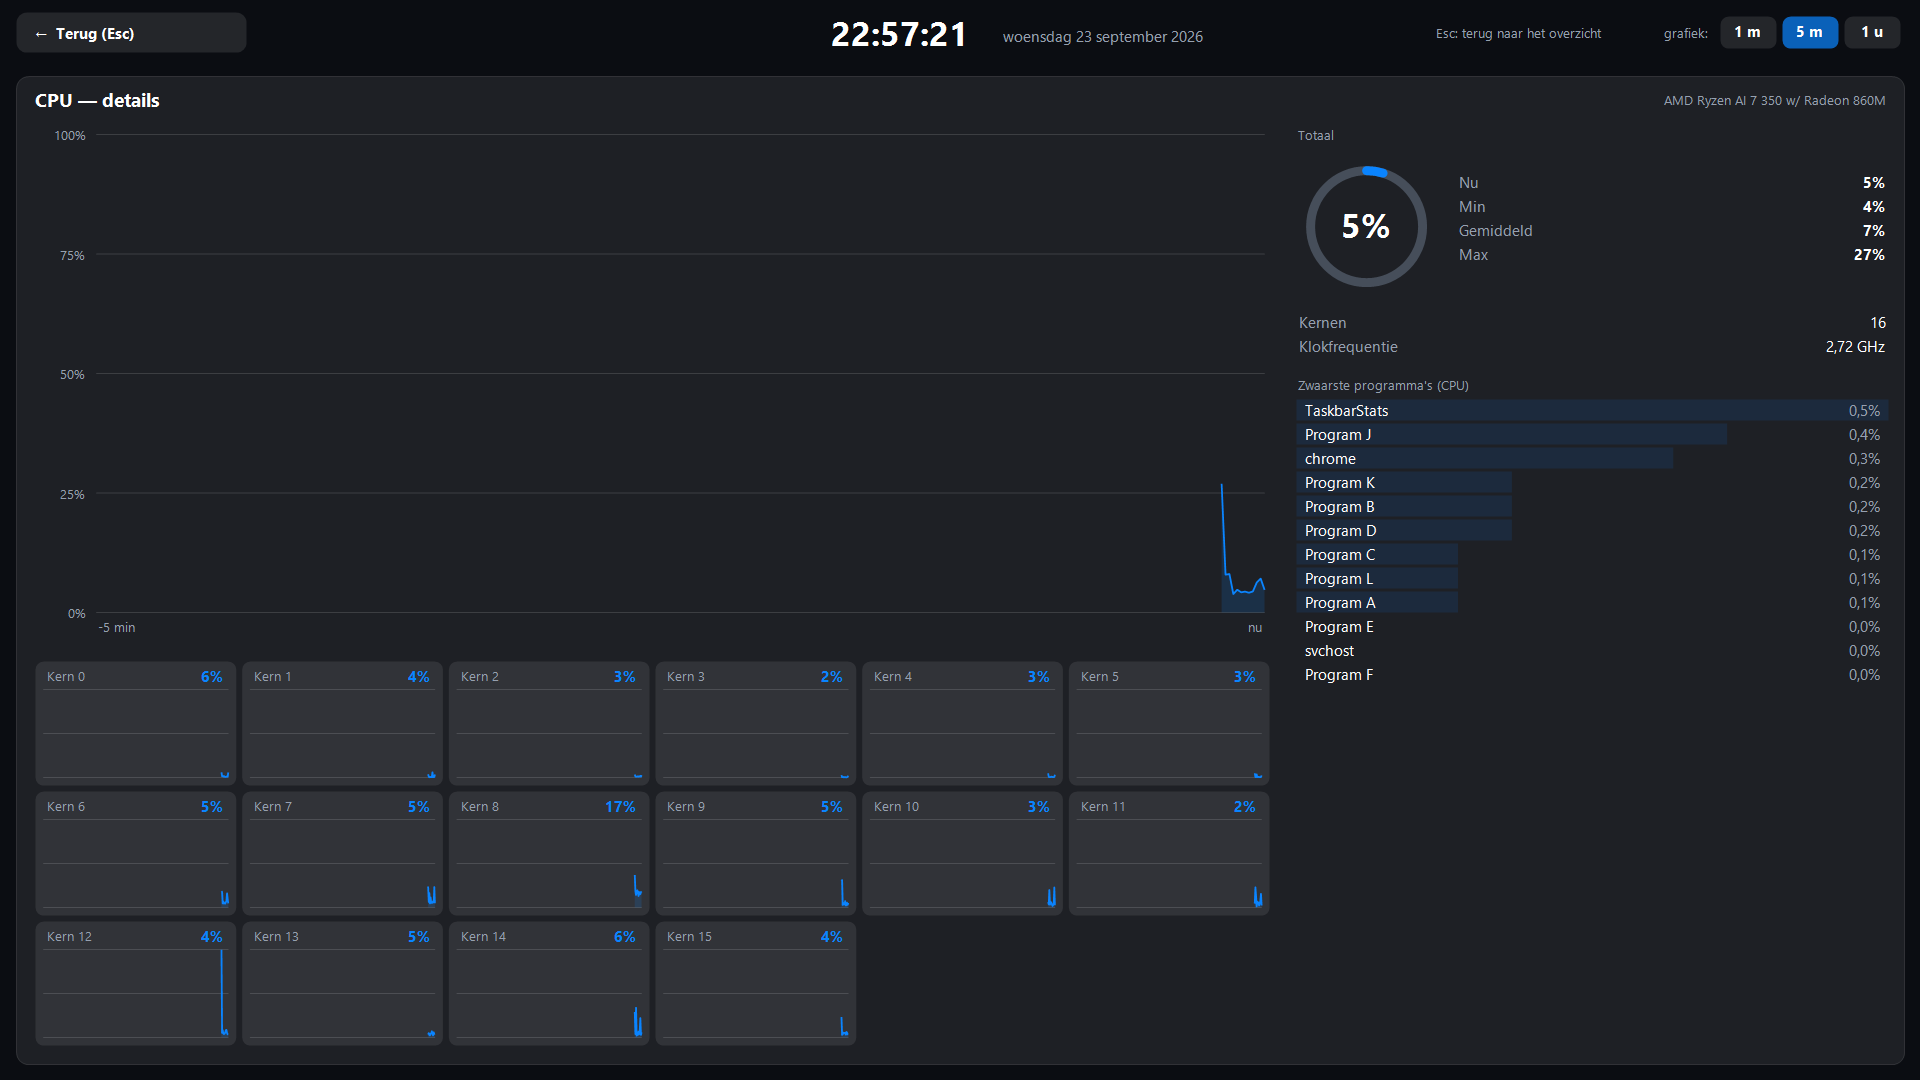
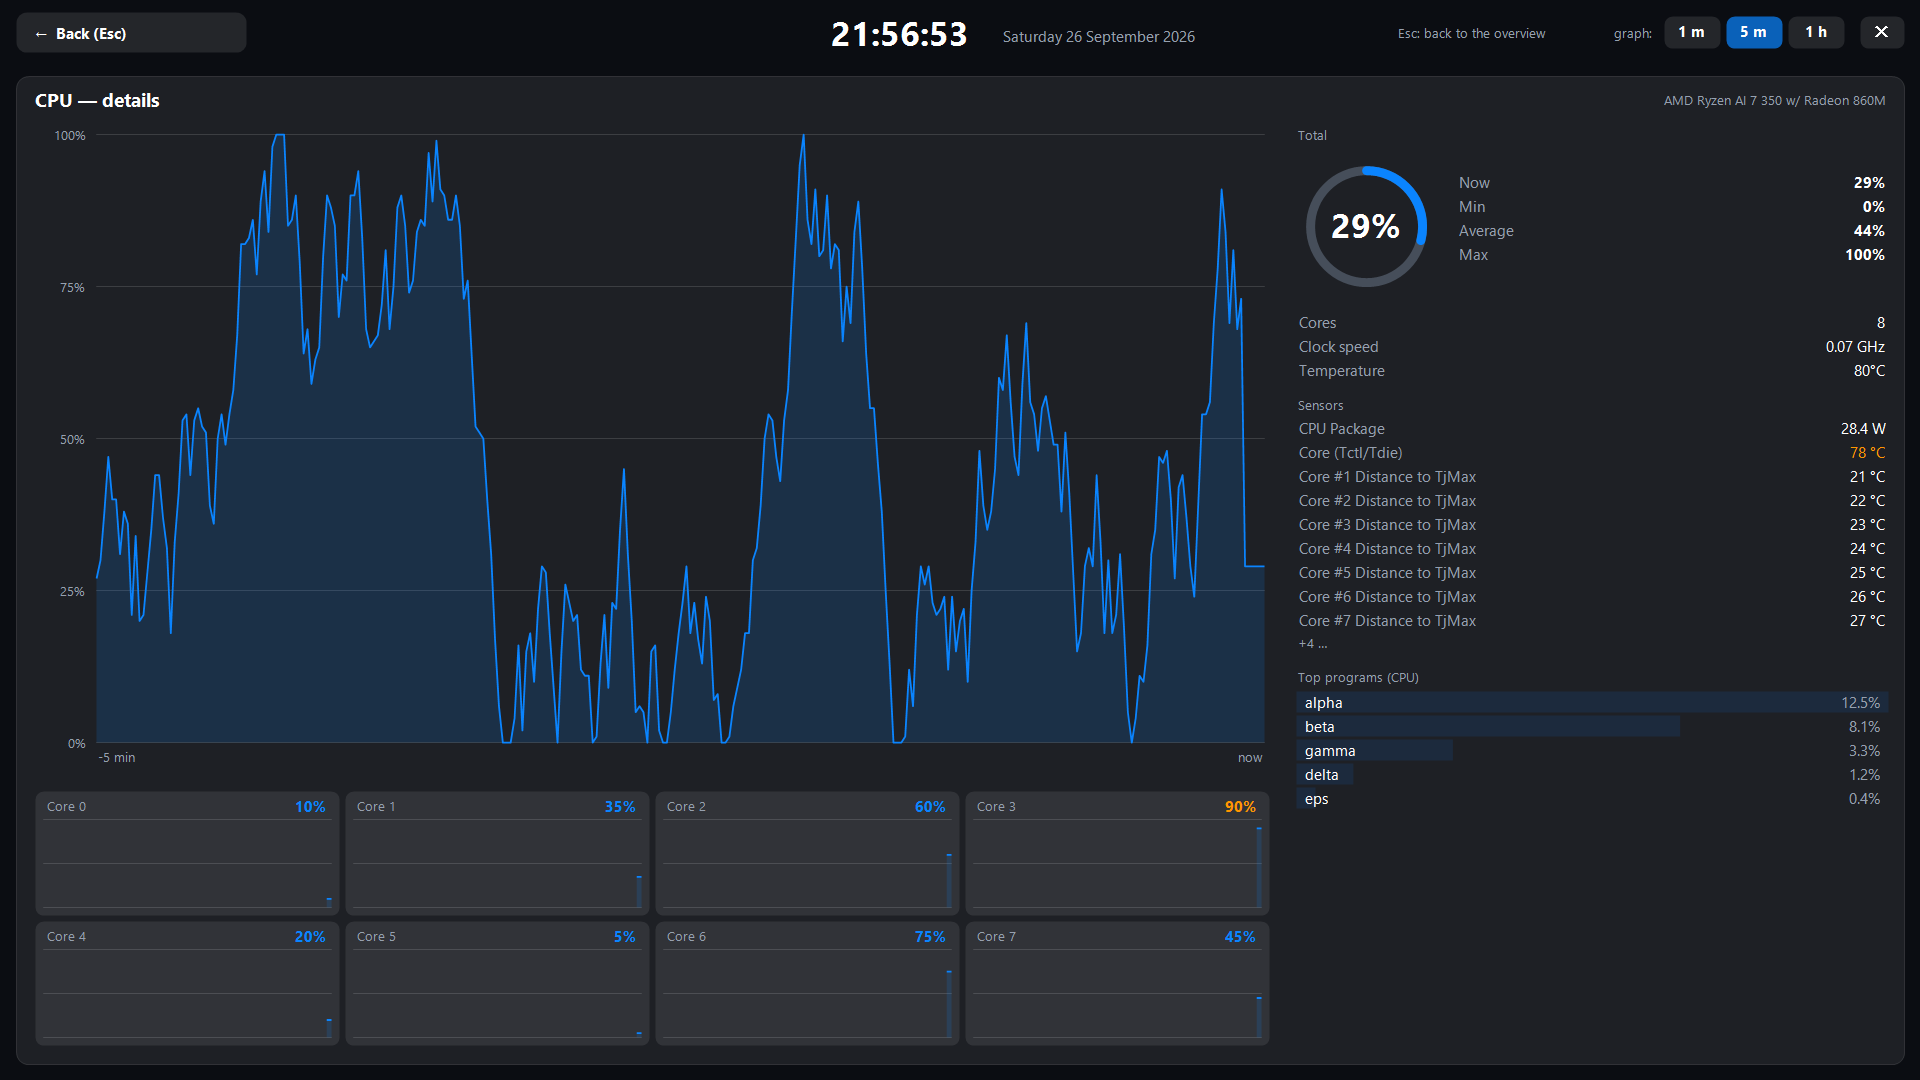
Screenshots opnieuw in het Engels (en-US): menu, instellingen, dashboard, fullscreen, widgets met FPS en processen

diff --git a/README.de.md b/README.de.md
@@ -46,7 +46,7 @@ Live ansehen: [For gamers (51 s, Englisch)](https://github.com/ericbruggema/Task
 
 ## Screenshots
 
-*Die Screenshots zeigen die niederländische Oberfläche; das Programm gibt es auch auf Englisch und Deutsch.*
+*Die Screenshots zeigen die englische Oberfläche (die Werte sind erfunden); einige ältere zeigen noch die niederländische. Das Programm gibt es auch auf Niederländisch und Deutsch.*
 
 **Taskleisten-Widget** — Zahlen, Anzeigen, Balken oder Diagramme, mit FPS und Prozessanzahl neben CPU, GPU und Speicher:
 

diff --git a/README.md b/README.md
@@ -46,7 +46,7 @@ Watch it in action: [For gamers (51 s)](https://github.com/ericbruggema/TaskbarS
 
 ## Screenshots
 
-*Screenshots show the Dutch interface; the app also runs in English and German.*
+*Screenshots show the English interface (values are made up); a few older ones still show the Dutch interface. The app also runs in Dutch and German.*
 
 **Taskbar widget** — numbers, gauges, bars or graphs, with FPS and process count next to CPU, GPU and memory:
 

diff --git a/README.nl.md b/README.nl.md
@@ -46,6 +46,8 @@ Bekijk het in actie: [For gamers (51 s, Engels)](https://github.com/ericbruggema
 
 ## Screenshots
 
+*De screenshots tonen de Engelse interface (de waarden zijn verzonnen); een paar oudere tonen nog de Nederlandse. De app draait ook in het Nederlands en Duits.*
+
 **Taakbalk-widget** — cijfers, meters, balken of grafieken, met FPS en aantal processen naast CPU, GPU en geheugen:
 
 ![Widget met cijfers](docs/screenshots/widget-digital.png)
